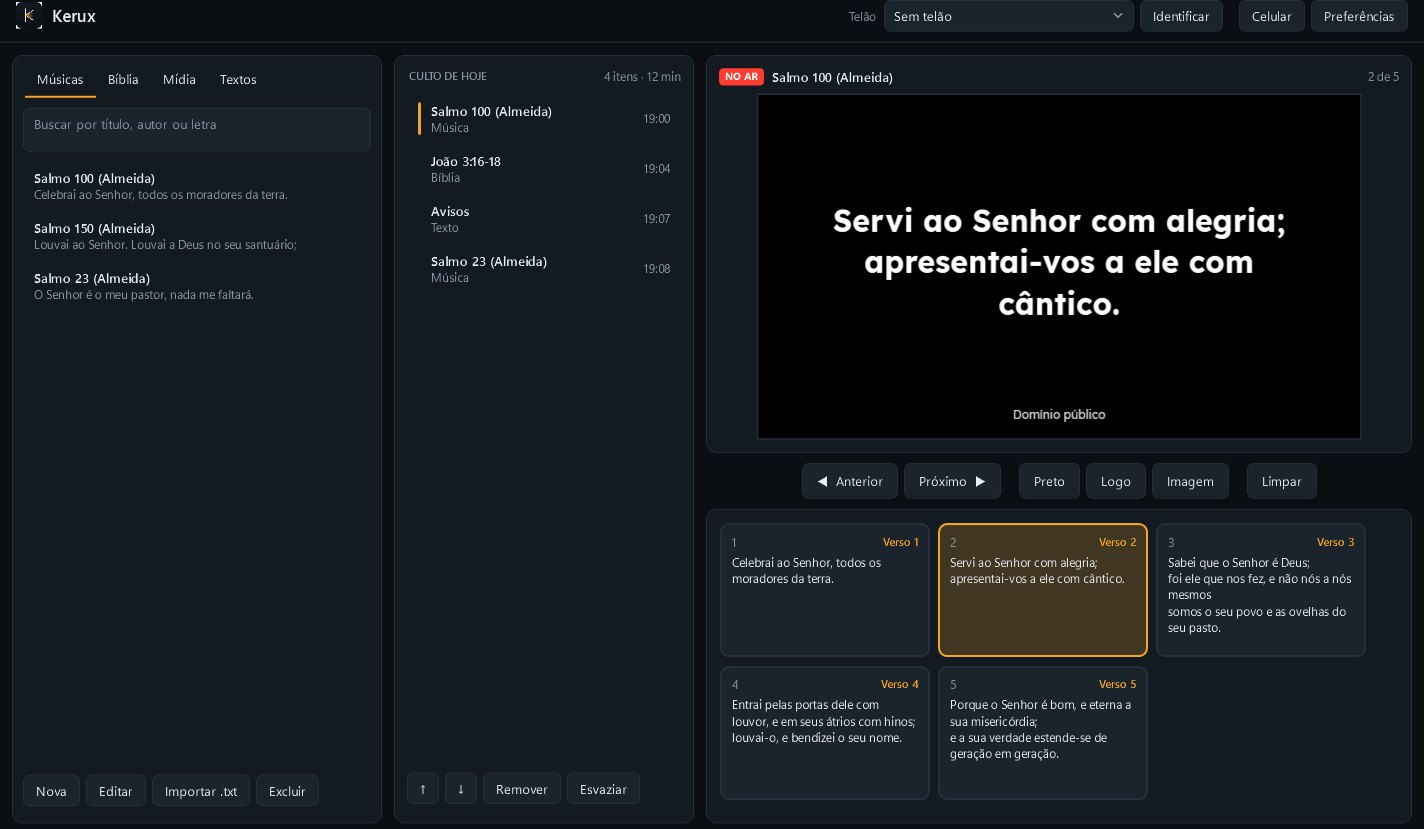
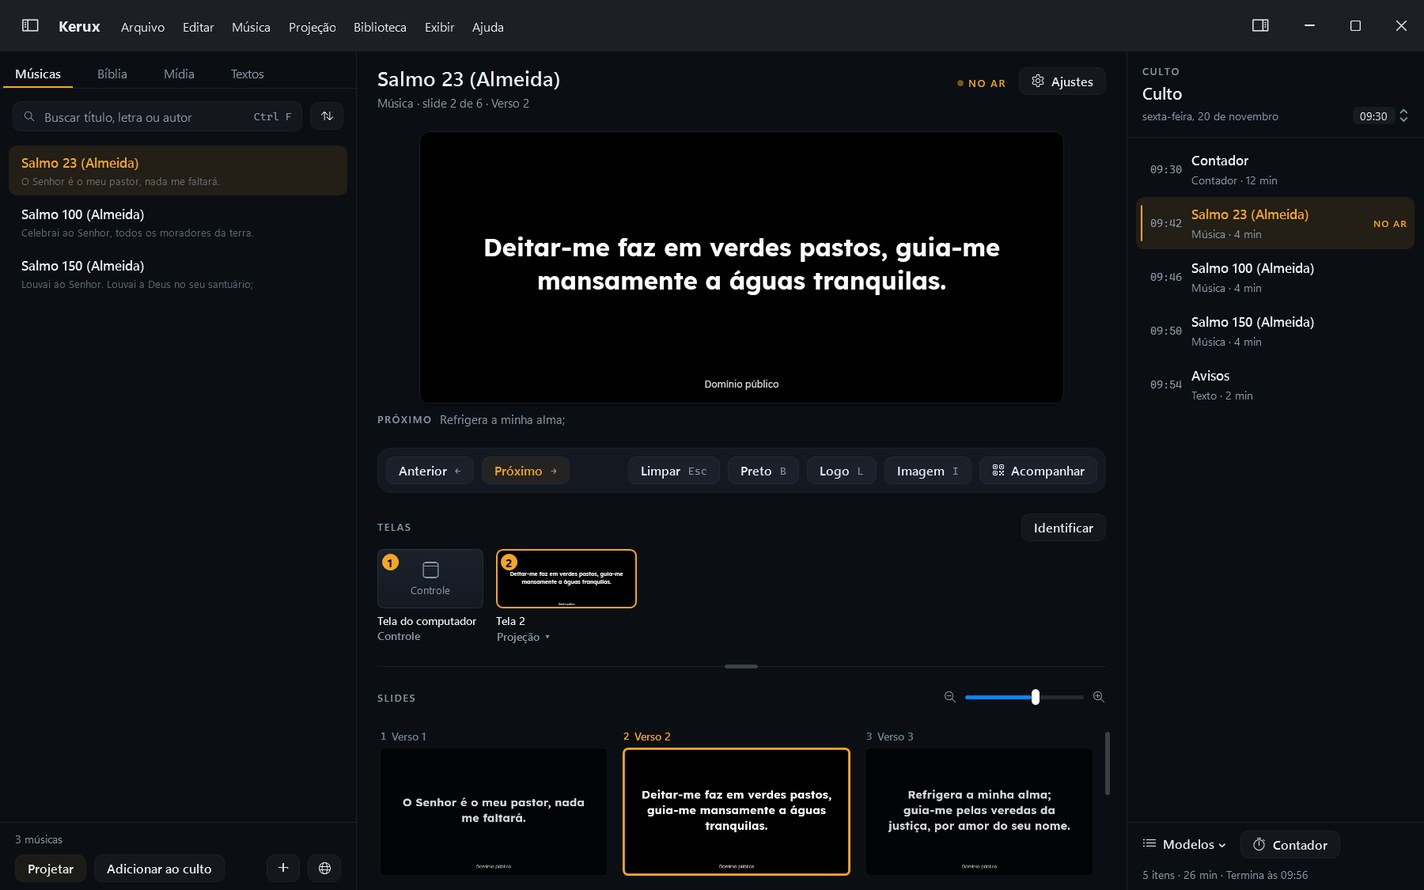
feat(kerux): Kerux para Windows 1.1.0 no site
A seção Windows deixa de listar o que era só do Mac: a 1.1.0 traz tudo.
Captura nova da janela de controle.

diff --git a/public/kerux/index.html b/public/kerux/index.html
@@ -235,26 +235,29 @@
         <p class="lead"><strong>O Kerux no computador da igreja que roda Windows.</strong> Letras, Bíblia, mídia e avisos
           no telão, o culto do dia e o mesmo controle pelo celular: o Kerux Controle Remoto funciona com o Mac e com o Windows.</p>
         <figure class="sw-fig">
-          <img src="/img/kerux/windows/controle.jpg" width="1424" height="829" loading="lazy"
-            alt="Kerux para Windows: a biblioteca de músicas à esquerda, o culto de hoje com o horário de cada item ao centro, o Salmo 100 no ar na prévia, os botões Anterior, Próximo, Preto, Logo, Imagem e Limpar e os slides embaixo.">
-          <figcaption>Kerux para Windows: biblioteca, culto de hoje, prévia do telão e os slides do item no ar.</figcaption>
+          <img src="/img/kerux/windows/controle.jpg" width="1424" height="890" loading="lazy"
+            alt="Kerux para Windows: a barra de menus no alto, a biblioteca de músicas à esquerda, o Salmo 23 no ar na prévia ao centro, os botões Anterior, Próximo, Limpar, Preto, Logo, Imagem e Acompanhar, as telas identificadas com a miniatura do que está saindo, os slides embaixo e o culto de hoje com o horário de cada item à direita.">
+          <figcaption>Kerux para Windows: biblioteca, prévia do telão, telas, slides do item no ar e o culto de hoje.</figcaption>
         </figure>
         <div class="sw-cols">
           <div>
             <h3>O que já faz</h3>
-            <p>Músicas com busca sem acento e “Colar letra” que tira as cifras; Bíblia (Almeida, Bíblia Livre e Nova Bíblia
-              Viva) por referência, livro e capítulo ou palavra; imagem, vídeo, áudio e PDF; textos e avisos; o culto de hoje
-              com horários; telão na tela do projetor com Preto, Logo e Imagem; temas e fundos.</p>
+            <p>Músicas com busca sem acento, “Colar letra” que tira as cifras, busca de letras na internet e importação de
+              OpenLyrics, OpenSong e Holyrics; Bíblia (Almeida, Bíblia Livre e Nova Bíblia Viva, e as que você importar) por
+              referência, livro e capítulo ou palavra; imagem, vídeo, áudio, PDF, PowerPoint e YouTube por link; textos e
+              avisos; o culto de hoje com horários, modelos de culto e contador de abertura; temas e fundos.</p>
           </div>
           <div>
-            <h3>Celular, palco e OBS</h3>
-            <p>O Kerux Controle Remoto acha o computador sozinho na rede da igreja. A tela de palco abre no navegador do tablet,
-              e o texto para o OBS entra como fonte de navegador, com fundo transparente.</p>
+            <h3>Telão, celular, palco e OBS</h3>
+            <p>Várias saídas, com projeção e retorno do palco, e Preto, Logo e Imagem. O Kerux Controle Remoto acha o
+              computador sozinho na rede da igreja, e a congregação acompanha a letra pelo QR. Para a transmissão: texto
+              com fundo transparente como fonte de navegador, troca de cena automática no OBS e legenda ao vivo no YouTube.</p>
           </div>
           <div>
-            <h3>Ainda só no Mac</h3>
-            <p>PowerPoint e Keynote ao vivo, vídeo do YouTube por link, legenda ao vivo no YouTube, automação do OBS, contador
-              de abertura, modelos de culto e importação de OpenLyrics, OpenSong e Holyrics. Chegam nas próximas versões.</p>
+            <h3>O mesmo Kerux do Mac</h3>
+            <p>A versão 1.1.0 traz para o Windows o que o Kerux para Mac faz, na mesma disposição de tela. O backup
+              (<code>.keruxbackup</code>) leva músicas, cultos e temas de um para o outro. Só a publicação por Syphon fica
+              no Mac: no Windows, use as fontes de navegador do OBS.</p>
           </div>
         </div>
         <!-- kerux-windows-download -->
